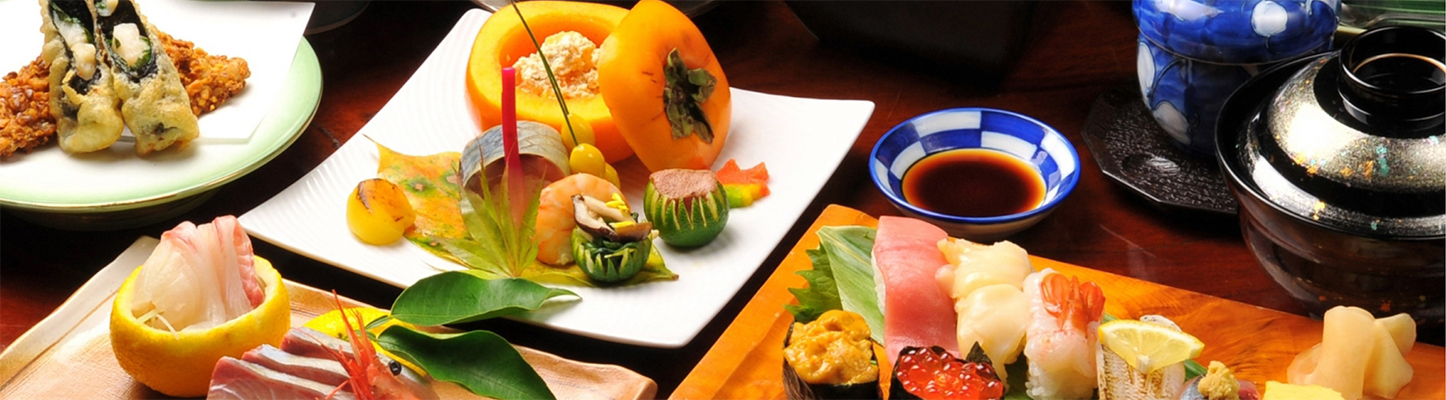
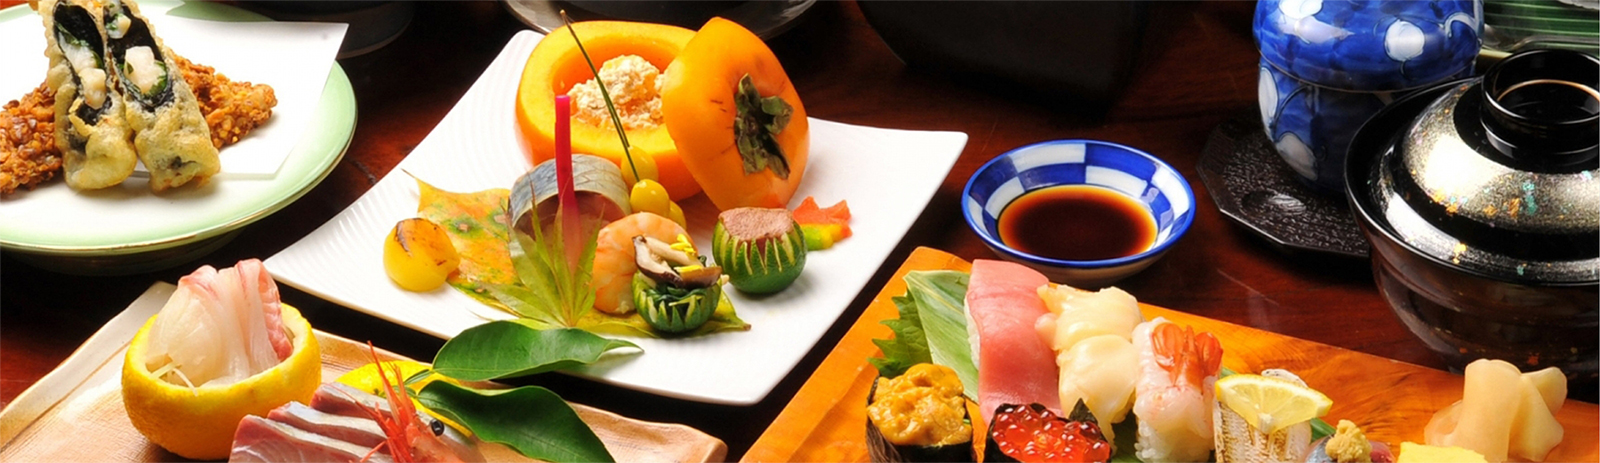
refine home page style

diff --git a/public/css/bootstrap-desk.css b/public/css/bootstrap-desk.css
@@ -155,7 +155,7 @@ html, body {
 }
 .home-img {
   background:url('../img/home.jpg') no-repeat 50% 41px;
-  height: 441px;
+  height: 502px;
 }
 .home-img-cover {
   background-color: #000000;
@@ -164,7 +164,21 @@ html, body {
   top: 41px;
   left: 0;
   width: 100%;
-  height: 400px;
+  height: 460px;
+}
+.home-img-content {
+  position: absolute;
+  top: 41px;
+  left: 0;
+  width: 100%;
+  height: 460px;
+  color: #d0d0d0;
+  text-align: center;
+}
+.home-img-title {
+  font-size: 50px;
+  padding-top: 150px;
+  padding-bottom: 50px;
 }
 .home-datas {
   padding-top: 60px;
@@ -186,15 +200,8 @@ html, body {
   border: none;
 }
 .home-info {
-  padding-top: 40px;
-  padding-bottom: 60px;
-}
-.home-info-title {
-  text-align: center;
-  font-size: 42px;
-  line-height: 60px;
-  height: 60px;
-  font-weight: bold;
+  padding-top: 80px;
+  padding-bottom: 100px;
 }
 .home-info-row {
   padding-top: 30px;
@@ -202,16 +209,16 @@ html, body {
 }
 .home-info-col {}
 .home-info-logo {
-  width: 150px;
-  height: 150px;
+  width: 180px;
+  height: 180px;
   border-radius: 50%;
   margin-left: auto;
   margin-right: auto;
   background-color: #242b32;
 }
 .home-info-logo i {
-  font-size: 80px;
-  line-height: 150px;
+  font-size: 90px;
+  line-height: 180px;
   text-align: center;
 }
 .logo-color-green {
@@ -239,11 +246,13 @@ html, body {
   margin-right: auto;
   font-size: 18px;
 }
-
+.home-qrcode {
+  width: 100%;
+}
 .home-feedback {
   background-color: #2b2d35;
-  padding-top: 40px;
-  padding-bottom: 40px;
+  padding-top: 70px;
+  padding-bottom: 60px;
 }
 .home-feedback-title {
   color: #ffffff;
